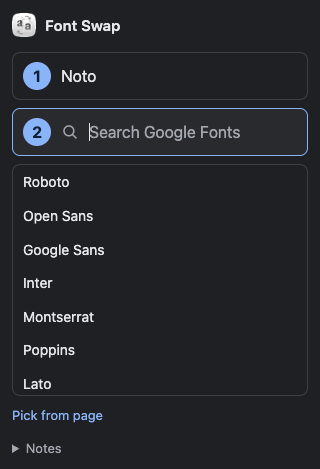
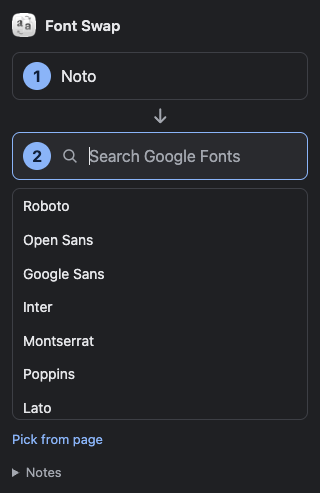
Expand saved font swaps inline without removing them

diff --git a/extension/sidepanel.js b/extension/sidepanel.js
@@ -13,6 +13,7 @@ const els = {
   picking: $('picking'),
   cancel: $('cancel'),
   pairs: $('pairs'),
+  stepsHome: $('steps-home'),
   steps: $('steps'),
   pickSource: $('pick-source'),
   sourceName: $('source-name'),
@@ -144,10 +145,11 @@ function render() {
   els.undo.hidden = !rules.length;
   els.undo.disabled = busy;
   els.picking.hidden = !state.picking;
-  renderPairs(rules);
+  const inline = renderPairs(rules, editing);
 
   els.steps.hidden = !editing;
-  els.another.hidden = editing;
+  els.stepsHome.hidden = !editing || inline;
+  els.another.hidden = !rules.length || (editing && !inline);
   els.sourceName.textContent = state.source || 'Pick font';
   els.pickSource.setAttribute('aria-label', state.source ? `Font to change: ${state.source}. Pick another` : 'Pick font to change');
   els.pickSource.setAttribute('aria-pressed', String(state.picking === 'source'));
@@ -165,25 +167,36 @@ function render() {
   els.warningList.replaceChildren(...warnings.map((text) => Object.assign(document.createElement('li'), { textContent: text })));
 }
 
-function renderPairs(rules) {
+function renderPairs(rules, editing) {
   els.pairs.hidden = !rules.length;
-  const current = sourceKey(state);
-  const signature = JSON.stringify([current, rules.map((rule) => [rule.id, rule.frameId, rule.source, destinationName(rule.destination)])]);
-  if (signature === pairsSignature) return;
+  const openKey = editing ? sourceKey(state) : '';
+  const inline = rules.some((rule) => `${rule.frameId}:${rule.source}` === openKey);
+  const signature = JSON.stringify([openKey, rules.map((rule) => [rule.id, rule.frameId, rule.source, destinationName(rule.destination)])]);
+  if (signature === pairsSignature) return inline;
   pairsSignature = signature;
+  // Keep the single editor alive while rebuilding its accordion rows.
+  els.stepsHome.append(els.steps);
   els.pairs.replaceChildren(...rules.map((rule) => {
     const from = rule.source;
     const to = destinationName(rule.destination);
     const item = document.createElement('li');
     item.className = 'pair';
+    const header = Object.assign(document.createElement('div'), { className: 'pair-header' });
+    const body = Object.assign(document.createElement('div'), { className: 'pair-body', id: `pair-${rule.frameId}-${rule.id}` });
+    const open = `${rule.frameId}:${from}` === openKey;
+    body.hidden = !open;
     const edit = document.createElement('button');
     edit.type = 'button';
     edit.className = 'pair-edit';
     edit.dataset.action = 'select';
+    edit.id = `edit-${rule.frameId}-${rule.id}`;
     edit.setAttribute('aria-label', `Change ${from} to ${to}`);
-    if (`${rule.frameId}:${from}` === current) edit.setAttribute('aria-current', 'true');
+    edit.setAttribute('aria-expanded', String(open));
+    edit.setAttribute('aria-controls', body.id);
     const arrow = Object.assign(document.createElement('span'), { className: 'pair-arrow', textContent: '→' });
-    edit.append(Object.assign(document.createElement('span'), { textContent: from }), arrow, Object.assign(document.createElement('span'), { textContent: to }));
+    const chevron = Object.assign(document.createElement('span'), { className: 'pair-chevron', textContent: '›' });
+    chevron.setAttribute('aria-hidden', 'true');
+    edit.append(Object.assign(document.createElement('span'), { textContent: from }), arrow, Object.assign(document.createElement('span'), { textContent: to }), chevron);
     const remove = document.createElement('button');
     remove.type = 'button';
     remove.className = 'pair-remove';
@@ -194,9 +207,12 @@ function renderPairs(rules) {
       button.dataset.ruleId = rule.id;
       button.dataset.frameId = rule.frameId;
     }
-    item.append(edit, remove);
+    header.append(edit, remove);
+    if (open) body.append(els.steps);
+    item.append(header, body);
     return item;
   }));
+  return inline;
 }
 
 // Actions
@@ -310,10 +326,23 @@ els.pairs.addEventListener('click', async (event) => {
   if (!button) return;
   const payload = { ruleId: button.dataset.ruleId, frameId: Number(button.dataset.frameId) };
   const rule = state.rules.find((entry) => String(entry.id) === payload.ruleId && entry.frameId === payload.frameId);
-  if (rule) payload.ruleId = rule.id;
+  if (busy || !rule) return;
+  payload.ruleId = rule.id;
   if (button.dataset.action === 'select') {
-    doneKey = '';
-    if (await run('select', payload)) els.search.focus();
+    if (button.getAttribute('aria-expanded') === 'true') {
+      if (state.picking) await run('cancel');
+      doneKey = sourceKey(state);
+      render();
+      $(button.id)?.focus();
+      return;
+    }
+    if (await run('select', payload)) {
+      doneKey = '';
+      els.search.value = '';
+      activeIndex = -1;
+      render();
+      els.search.focus();
+    }
   } else if (await run('remove', payload)) {
     (els.another.hidden ? els.pickSource : els.another).focus();
   }

diff --git a/extension/sidepanel.css b/extension/sidepanel.css
@@ -100,6 +100,13 @@ input {
   gap: 8px;
 }
 
+.step-arrow {
+  align-self: center;
+  color: var(--muted);
+  font-size: 20px;
+  line-height: 16px;
+}
+
 .panel-header {
   display: flex;
   align-items: center;
@@ -332,14 +339,25 @@ button.step[aria-pressed="true"] {
 
 .pair {
   display: flex;
+  flex-direction: column;
   align-items: stretch;
   min-width: 0;
+  border: 1px solid var(--border);
   border-radius: var(--radius);
   background: var(--surface);
 }
 
-.pair:has([aria-current="true"]) {
-  background: var(--accent-soft);
+.pair:has([aria-expanded="true"]) {
+  border-color: var(--accent);
+}
+
+.pair-header {
+  display: flex;
+  min-width: 0;
+}
+
+.pair-body {
+  padding: 4px 10px 10px;
 }
 
 .pair-edit,
@@ -352,6 +370,7 @@ button.step[aria-pressed="true"] {
 
 .pair-edit {
   display: flex;
+  align-items: center;
   flex: 1 1 auto;
   gap: 6px;
   min-width: 0;
@@ -369,6 +388,18 @@ button.step[aria-pressed="true"] {
 .pair-edit .pair-arrow {
   flex: none;
   color: var(--muted);
+}
+
+.pair-edit .pair-chevron {
+  flex: none;
+  margin-left: auto;
+  color: var(--muted);
+  font-size: 18px;
+  line-height: 1;
+}
+
+.pair-edit[aria-expanded="true"] .pair-chevron {
+  transform: rotate(90deg);
 }
 
 .pair-remove {

diff --git a/extension/sidepanel.html b/extension/sidepanel.html
@@ -31,11 +31,13 @@
 
       <ul id="pairs" class="pairs" aria-label="Swapped fonts" hidden></ul>
 
+      <div id="steps-home">
       <div id="steps" class="steps">
         <button type="button" id="pick-source" class="step" aria-pressed="false">
           <span class="step-number" aria-hidden="true">1</span>
           <span id="source-name" class="step-label">Pick font</span>
         </button>
+        <span class="step-arrow" aria-hidden="true">↓</span>
         <label class="step step-search" for="search">
           <span class="step-number" aria-hidden="true">2</span>
           <svg class="search-icon" width="18" height="18" viewBox="0 0 24 24" fill="none" stroke="currentColor" stroke-width="2" aria-hidden="true"><circle cx="10.5" cy="10.5" r="6.5"/><path d="m16 16 4.5 4.5"/></svg>
@@ -44,6 +46,7 @@
         </label>
         <div id="results" class="results" role="listbox" aria-label="Fonts" hidden></div>
         <button type="button" id="pick-dest" class="link-button" hidden>Pick from page</button>
+      </div>
       </div>
 
       <button type="button" id="another" class="button" hidden>+ Another font</button>

diff --git a/docs/verification.md b/docs/verification.md
@@ -1,8 +1,8 @@
 # Verification
 
-Verified 2026-10-08T03:11:15.252Z on macOS arm64, Node 24, Chrome for Testing 152.0.7977.75.
+Verified 2026-10-08T03:19:07.801Z on macOS arm64, Node 24, Chrome for Testing 152.0.7977.75.
 
-Manifest and syntax checks passed. Five unit tests passed. All 32 end-to-end browser checks passed. Font downloads were real, and Chrome's CSS protocol confirmed Lora glyphs in the rendered heading.
+Manifest and syntax checks passed. Five unit tests passed. All 34 end-to-end browser checks passed. Font downloads were real, and Chrome's CSS protocol confirmed Lora glyphs in the rendered heading.
 
 The fixture browser used loopback-only permissions in a temporary manifest copy to exercise permitted frames. The native-panel browser used the exact production manifest and a real toolbar action. Test browsers, fixture servers and temporary profiles were closed.
 
@@ -32,9 +32,11 @@ The fixture browser used loopback-only permissions in a temporary manifest copy 
 - Undo all restores simultaneous swaps across permitted frames
 - restricted browser page reports unsupported action
 - production manifest toolbar gesture opens native panel and grants activeTab
+- saved pair opens and closes inline without removing the pair or changing the applied font
 - native panel searches, applies instantly, edits by keyboard and undoes on public iana.org
 - native panel adds simultaneous pairs while production permissions protect cross-origin frames
-- minimal two-pair panel fits 320px and renders light and dark themes
+- switching accordion rows keeps both swaps applied and expands one editor at a time
+- expanded two-pair accordion fits 320px and renders light and dark themes
 - native panel removes one pair independently and Undo all restores the rest
 - native panel page-picked destination applies immediately and collapses to pair
 - native panel reconnects after navigation and Escape cancels picker
@@ -66,9 +68,9 @@ The Codex in-app browser's control policy rejected chrome://extensions because o
 
 These results cover the listed cases on the tested browsers. They do not establish exact glyph detection or universal browser compatibility. See README boundaries.
 
-## Search field in v0.2.1
+## Search and accordion in v0.2.1
 
-The second pick uses a search icon, Search Google Fonts label and placeholder, a filled background, and native search input. Clicking the row focuses the field. The actual native Chrome panel was visually checked at 320px in light and dark themes. All 32 browser checks and five unit tests passed again. The Dia manual checks above refer to v0.2.0; concurrent user input prevented repeating them for this visual patch.
+The second pick uses a search icon, Search Google Fonts label and placeholder, a filled background, and native search input. Clicking the row focuses the field. The actual native Chrome panel was visually checked at 320px in light and dark themes. All 34 browser checks and five unit tests passed again. Saved pairs expand the two-pick editor inside their row, with one row open at a time. Opening, closing and switching rows preserves the applied fonts. A down arrow connects the two picks. The × button removes a pair independently. The Dia manual checks above refer to v0.2.0; concurrent user input prevented repeating them for this visual patch.
 
 ![Search field in dark theme](search-dark.png)
 

diff --git a/README.md b/README.md
@@ -10,7 +10,7 @@ Private Chrome extension. Click text, choose a Google Font or another font on th
 4. Open a website and click the Font Swap toolbar icon. Pin the icon for easier access.
 5. **Pick 1**. Click text whose font you want to change. Hovering shows its font name.
 6. **Pick 2**. Search Google Fonts and choose one, or use **Pick from page**. The font changes immediately.
-7. Use **Another font** to add more pairs. Select a pair to change its destination, remove one pair, or **Undo all**.
+7. Use **Another font** to add more pairs. Click a pair to expand its editor in place. Click it again to collapse. Use × to remove one pair, or **Undo all**.
 
 The packaged ZIP contains the same extension files. Unzip it first, then load the extracted folder. Reload the extension from `chrome://extensions` after code updates.
 
